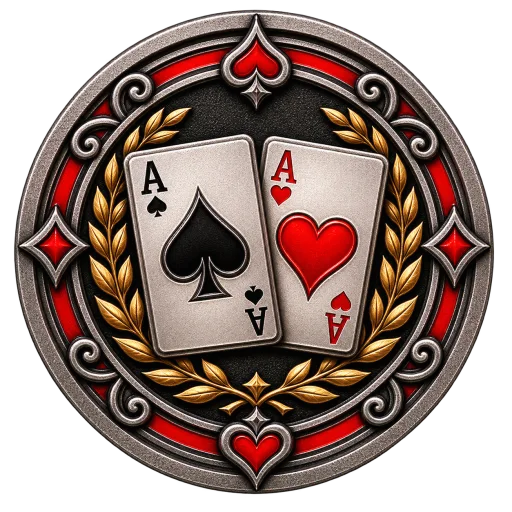
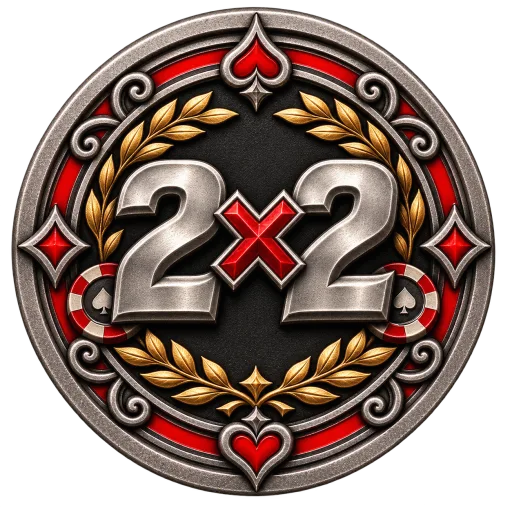
Use 2x2 artwork for FLOP DUO

diff --git a/apps/web/src/lib/tournamentAssets.ts b/apps/web/src/lib/tournamentAssets.ts
@@ -32,7 +32,7 @@ const tournamentDisplayTitles: Record<string, string> = {
   "FLOP DEVIL DEAL": "Flop Devil Deal"
 };
 
-const awardAssetVersion = "20261109-awards-v2";
+const awardAssetVersion = "20261109-duo-2x2";
 
 export function tournamentSlug(title: string) {
   return tournamentSlugs[title] ?? title.toLowerCase().replace(/\s+/g, "-");
